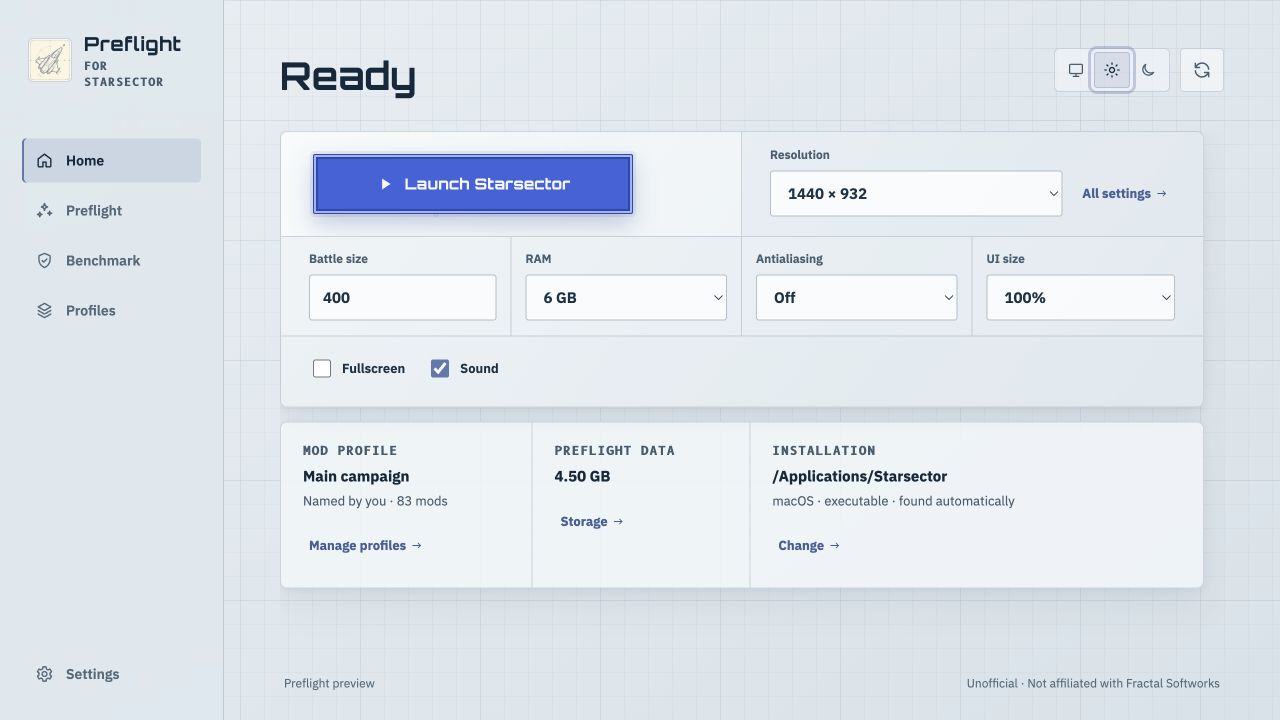
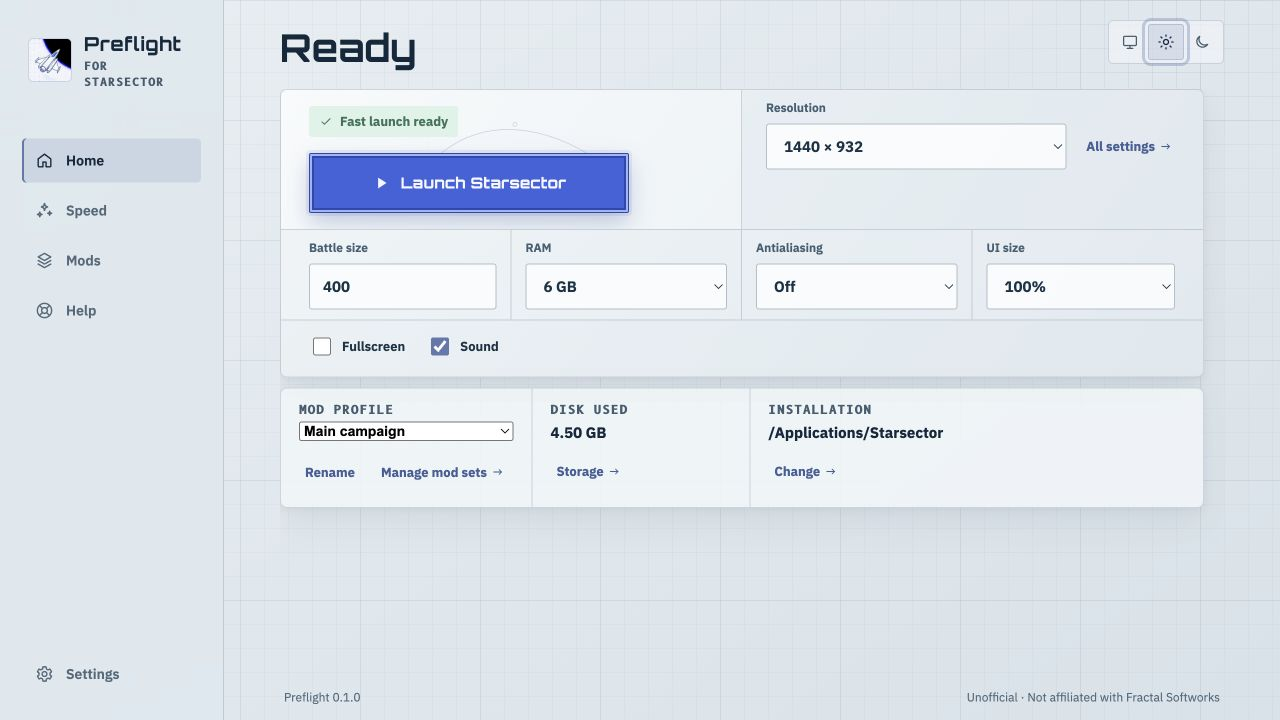
Polish the release candidate walkthrough

diff --git a/preflight-desktop/src/styles.css b/preflight-desktop/src/styles.css
@@ -3405,8 +3405,96 @@ footer {
 }
 
 @media (max-height: 720px) and (min-width: 1001px) {
+  .main {
+    padding-top: 20px;
+    padding-bottom: 14px;
+  }
+
+  .topbar {
+    margin-bottom: 14px;
+  }
+
   .page-viewport--home {
     overflow-y: auto;
+  }
+
+  .prepare-page {
+    gap: 10px;
+  }
+
+  .settings-page {
+    gap: 10px;
+  }
+
+  .settings-page .removal-card {
+    margin-top: 0;
+  }
+
+  .help-page :is(.support-card, .help-links-card) {
+    padding-top: 21px;
+    padding-bottom: 21px;
+  }
+
+  .preflight-summary-card {
+    padding-top: 16px;
+    padding-bottom: 16px;
+  }
+
+  .storage-card--compact {
+    padding-top: 12px;
+    padding-bottom: 10px;
+  }
+
+  .prove-card {
+    padding: 16px 20px;
+  }
+
+  .prove-card__main {
+    margin-bottom: 0;
+  }
+
+  .preflight-advanced > summary {
+    min-height: 56px;
+  }
+
+  .launch-console--configured .launch-console__primary {
+    padding: 16px 28px;
+  }
+
+  .launch-console--configured .quick-control--resolution {
+    padding: 9px 24px;
+  }
+
+  .launch-console--configured :where(.quick-control--battle-size, .quick-control--memory, .quick-control--antialiasing, .quick-control--ui-scale) {
+    padding-top: 9px;
+    padding-bottom: 10px;
+  }
+
+  .launch-console--configured .quick-settings__toggles {
+    padding-top: 4px;
+    padding-bottom: 8px;
+  }
+
+  .home-overview {
+    margin-top: 10px;
+  }
+
+  .home-fact {
+    gap: 3px;
+    padding: 13px 18px;
+  }
+
+  .home-fact > small {
+    display: none;
+  }
+
+  .home-fact .text-button,
+  .home-fact__links {
+    margin-top: 3px;
+  }
+
+  footer {
+    padding-top: 8px;
   }
 }
 

diff --git a/preflight-desktop/src/styles.test.ts b/preflight-desktop/src/styles.test.ts
@@ -45,6 +45,13 @@ test("wide, narrow, and short windows keep content inside the desktop shell", ()
   expect(styles).toMatch(/@media \(max-width: 720px\)[\s\S]*?\.launch-console\s*\{[^}]*grid-template-columns:\s*1fr;/);
   expect(styles).toMatch(/@media \(max-width: 720px\)[\s\S]*?\.home-overview\s*\{[^}]*grid-template-columns:\s*1fr;/);
   expect(styles).toMatch(/@media \(max-width: 780px\)[\s\S]*?\.brand,[\s\S]*?\.nav,[\s\S]*?\.sidebar__footer\s*\{[^}]*flex-shrink:\s*0;/);
+  expect(styles).toMatch(/@media \(max-height: 720px\) and \(min-width: 1001px\)[\s\S]*?\.main\s*\{[^}]*padding-top:\s*20px;/);
+  expect(styles).toMatch(/@media \(max-height: 720px\) and \(min-width: 1001px\)[\s\S]*?\.prepare-page\s*\{[^}]*gap:\s*10px;/);
+  expect(styles).toMatch(/@media \(max-height: 720px\) and \(min-width: 1001px\)[\s\S]*?\.settings-page\s*\{[^}]*gap:\s*10px;/);
+  expect(styles).toMatch(/@media \(max-height: 720px\) and \(min-width: 1001px\)[\s\S]*?\.settings-page \.removal-card\s*\{[^}]*margin-top:\s*0;/);
+  expect(styles).toMatch(/@media \(max-height: 720px\) and \(min-width: 1001px\)[\s\S]*?\.help-page :is\(\.support-card, \.help-links-card\)\s*\{[^}]*padding-top:\s*21px;/);
+  expect(styles).toMatch(/@media \(max-height: 720px\) and \(min-width: 1001px\)[\s\S]*?\.prove-card__main\s*\{[^}]*margin-bottom:\s*0;/);
+  expect(styles).toMatch(/@media \(max-height: 720px\) and \(min-width: 1001px\)[\s\S]*?\.home-fact > small\s*\{[^}]*display:\s*none;/);
   expect(styles).toMatch(/@media \(max-height: 720px\) and \(min-width: 1001px\)[\s\S]*?\.page-viewport--home\s*\{[^}]*overflow-y:\s*auto;/);
 });
 

diff --git a/preflight-desktop/src/components/PreparationPage.tsx b/preflight-desktop/src/components/PreparationPage.tsx
@@ -147,7 +147,7 @@ export function PreparationPage({
             <h2>Optimizations</h2>
             <InfoTip label="About Preflight optimizations">Preflight applies only transformations reviewed for the exact game and mod build. A fingerprint mismatch keeps the original code.</InfoTip>
           </div>
-          <p>{optimizationPreset === "off" ? "Starsector will launch without Preflight’s runtime optimizations." : optimizationPreset === "conservative" ? "Compatibility mode is enabled for the next launch." : "Enabled for the next launch."}</p>
+          {optimizationPreset === "conservative" ? <p>Compatibility mode is enabled for the next launch.</p> : null}
         </div>
         <label className="simple-switch">
           <input type="checkbox" aria-label="Use Preflight optimizations" checked={optimizationPreset !== "off"} onChange={(event) => onOptimizationPresetChange(event.target.checked ? "recommended" : "off")} disabled={operationBlocked} />
@@ -213,7 +213,7 @@ export function PreparationPage({
         <div className="prove-card__main">
           <div>
             <h2>Does this actually help?</h2>
-            <p>Time your own game with and without Preflight, on this machine and this mod list.</p>
+            <p>Compare a normal launch with Preflight on this mod list.</p>
           </div>
           <button className="button button--quiet" type="button" onClick={onOpenBenchmark} disabled={!isReady}><GaugeIcon />Measure it<ArrowIcon /></button>
         </div>

diff --git a/preflight-desktop/src/components/HomePage.tsx b/preflight-desktop/src/components/HomePage.tsx
@@ -150,7 +150,7 @@ export function HomePage({
                 ? "This mod setup needs preparation"
                 : optimizationPreset === "off"
                   ? "Optimizations off — this launch won’t be faster"
-                  : "Ready — this launch will be the fast one";
+                  : "Fast launch ready";
   /*
    * The chip is always shown in the settled state, and says which of the two launches the button
    * is about to perform. "Ready" alone is the page title's job. Whether the next launch is the

diff --git a/scripts/verify_source_boundary.py b/scripts/verify_source_boundary.py
@@ -32,12 +32,42 @@ REVIEWED_OVERSIZED_BLOBS = {
 # alongside the blob id makes accidental truncation or substitution obvious and
 # lets the history audit accept only the reviewed image bytes.
 REVIEWED_DOCUMENTATION_IMAGES = {
-    "docs/images/desktop-home-dark.png": (61_109, "6b8308d1b71cb8e85a350bfb6d31956c51556ee5"),
-    "docs/images/desktop-home-light.png": (64_418, "1c4517a2161186f34a79ea9fffa66db79f28f167"),
-    "docs/images/desktop-profiles-light.png": (59_424, "b206041df4ee61123b3a6a47b492270bbcae4ac6"),
-    "docs/images/walkthrough-benchmark.png": (56_692, "69fb4cf05512f189151cf1e0f58085a6be6162fe"),
-    "docs/images/walkthrough-ready.png": (61_105, "7e413e9e2e55678192dd4c9f5a04673fc20f4cfa"),
-    "docs/images/walkthrough-setup.png": (50_674, "f41cfd715b7129a3439e3d3deb9e8886d52e90fd"),
+    "docs/images/desktop-home-dark.png": frozenset(
+        {
+            (61_109, "6b8308d1b71cb8e85a350bfb6d31956c51556ee5"),
+            (56_247, "ca01e532a00e804e5cca00c6f85028ab81b0fbdb"),
+        }
+    ),
+    "docs/images/desktop-home-light.png": frozenset(
+        {
+            (64_418, "1c4517a2161186f34a79ea9fffa66db79f28f167"),
+            (62_880, "a042bb65181efe99c41e2f7132a96f6ec8ca9c4e"),
+        }
+    ),
+    "docs/images/desktop-profiles-light.png": frozenset(
+        {
+            (59_424, "b206041df4ee61123b3a6a47b492270bbcae4ac6"),
+            (56_409, "4402dd545b806b5667f442e7370bfa3b3f3f8cf9"),
+        }
+    ),
+    "docs/images/walkthrough-benchmark.png": frozenset(
+        {
+            (56_692, "69fb4cf05512f189151cf1e0f58085a6be6162fe"),
+            (56_508, "b36aa4e523f1f850179093388f5ea38a18deb066"),
+        }
+    ),
+    "docs/images/walkthrough-ready.png": frozenset(
+        {
+            (61_105, "7e413e9e2e55678192dd4c9f5a04673fc20f4cfa"),
+            (56_016, "e8676673464db9e897c831e69813bb08d7bb83c4"),
+        }
+    ),
+    "docs/images/walkthrough-setup.png": frozenset(
+        {
+            (50_674, "f41cfd715b7129a3439e3d3deb9e8886d52e90fd"),
+            (49_295, "2922b4b63d94ac7a3f1eaca5adc886914199deb1"),
+        }
+    ),
 }
 FORBIDDEN_SEGMENTS = frozenset({"activation", "mods", "saves", "screenshots"})
 FORBIDDEN_BASENAMES = frozenset(
@@ -134,10 +164,10 @@ def git_blob_sha1(data: bytes) -> str:
 
 
 def reviewed_documentation_image(name: str, data: bytes) -> bool:
-    fingerprint = REVIEWED_DOCUMENTATION_IMAGES.get(name)
-    if fingerprint is None:
+    fingerprints = REVIEWED_DOCUMENTATION_IMAGES.get(name, frozenset())
+    if not fingerprints:
         return False
-    return (len(data), git_blob_sha1(data)) == fingerprint
+    return (len(data), git_blob_sha1(data)) in fingerprints
 
 
 def git(repository: Path, *args: str, input_data: bytes | None = None) -> bytes:

diff --git a/docs/getting-started.md b/docs/getting-started.md
@@ -50,16 +50,17 @@ change your mod list.
 
 ![Preflight asking for a Starsector installation](images/walkthrough-setup.png)
 
-## 4. Leave the defaults alone
+## 4. Prepare and launch
 
-**Recommended** and **Balanced** are the defaults and are what you want. Recommended enables the
-reviewed set of optimizations; Balanced trades some disk for speed without going overboard.
+Click **Prepare and launch**. Preflight automatically uses the reviewed optimizations and its normal
+storage choice, then opens Starsector when preparation finishes. You don't need to choose a mode.
 
 Before it writes anything, Preflight calculates how much disk the prepared data will need and
 refuses to start if the conservative estimate wouldn't leave at least 1 GiB free. On the 83-mod
-profile used in development the finished cache was about 4.5 GB.
+profile used in development the finished cache was about 4.5 GB. If that doesn't fit, the same
+screen offers a much smaller preparation instead.
 
-## 5. Prepare, once
+## 5. Let the first preparation finish
 
 Preparation is the slow step, and it only happens when your game or mod profile changes. It shows
 which phase it's on and can be cancelled at any point without leaving anything half-written.
@@ -69,18 +70,19 @@ launch.
 
 ## 6. Launch
 
-The big button starts Starsector. Resolution, battle size, RAM, antialiasing, UI scale, fullscreen,
-and sound sit beside it, so you don't need the vanilla launcher for the usual settings.
+After that first run, the big button simply starts Starsector. Resolution, battle size, RAM,
+antialiasing, UI scale, fullscreen, and sound sit beside it, so you don't need the vanilla launcher
+for the usual settings.
 
 ![Preflight ready to launch an 83-mod profile](images/walkthrough-ready.png)
 
-## 7. Optional: see what it did for you
+## 7. Optional: measure it
 
 The built-in benchmark runs one normal launch and one Preflight launch and compares the time each
 took to reach the main menu. That's your number, on your machine, with your mods — more useful than
 anyone else's.
 
-![Preflight benchmark and support controls](images/walkthrough-benchmark.png)
+![Preflight startup benchmark](images/walkthrough-benchmark.png)
 
 ## If something goes wrong
 

diff --git a/docs/release-readiness.md b/docs/release-readiness.md
@@ -69,12 +69,14 @@ still inside the release boundary below.
   [signed macOS lifecycle evidence](evidence/2026-08-08-signed-update-rollback-rehearsal.md).
 - [ ] Run the startup benchmark on the exact release candidate and publish those results beside the
   **101 seconds → 15.25 seconds** development progression. This one cannot be closed by running
-  anything today: `scripts/run-startup-benchmark.sh` hardcodes
-  `JAR="$PWD/preflight-cli/target/preflight.jar"` and has no packaged-engine mode, so every campaign
-  so far has measured the checkout rather than a built package. The
+  a checkout campaign: `scripts/run-startup-benchmark.sh --engine PATH` now resolves only a reviewed
+  packaged-engine layout, verifies the adjacent `bundle.json` length and SHA-256, records the
+  candidate identity, and refuses to fall back to `preflight-cli/target/preflight.jar`. Every
+  published campaign so far still measured checkout bytes, so the exact-candidate pair itself
+  remains to run. The
   [controlled campaign](evidence/2026-08-15-controlled-vanilla-fast-campaign.md) of 2026-08-15 did
   close the *other* half of this item — a same-profile vanilla baseline against the shipped preset,
-  89.00s versus 15.53s — but it too ran the checkout jar. Closing the box needs harness work first.
+  89.00s versus 15.53s — but it too ran the checkout jar.
 
 ## Blocking product work
 

diff --git a/docs/beta-roadmap.md b/docs/beta-roadmap.md
@@ -93,12 +93,16 @@ claims. Linux starts with X11; Wayland limitations remain explicit.
 
 **Exit:** each platform claim says whether its evidence came from hosted, emulated, or native work.
 
-## 6. Benchmark the release candidate — after candidate freeze
+## 6. Benchmark the release candidate — harness ready
 
 Run the built-in normal-versus-Preflight benchmark on the exact candidate and retain its receipt.
 Publish that result beside the established **101 seconds → 15.25 seconds** development progression.
 An alternating multi-run campaign remains available when it answers a useful follow-up question; it
 isn't required to make the existing progression real.
+
+The operator harness can now take that exact packaged engine, verify its adjacent manifest and
+SHA-256, bind the session to it, and refuse a checkout fallback. The remaining action is the paired
+run after the candidate revision is frozen.
 
 **Exit:** the exact distributed package has a retained benchmark result and the development record
 keeps its stated machine and profile context.

diff --git a/README.md b/README.md
@@ -104,10 +104,10 @@ and sound can be changed beside it.
 ![Preflight ready to launch an 83-mod profile](docs/images/walkthrough-ready.png)
 
 The optional benchmark runs a normal launch and a Preflight launch, then compares their main-menu
-times. Support ZIPs are separate: Preflight shows their contents, exclusions, size, and checksum
-before anything can be sent.
+times. Help is a separate destination: Preflight shows a support ZIP's contents, exclusions, size,
+and checksum before anything can be sent.
 
-![Preflight benchmark and support controls](docs/images/walkthrough-benchmark.png)
+![Preflight startup benchmark](docs/images/walkthrough-benchmark.png)
 
 ## Compatibility and containment
 

diff --git a/docs/beta-announcement-draft.md b/docs/beta-announcement-draft.md
@@ -151,7 +151,7 @@ If any of that sounds wrong or you want more detail, ask me. I'd rather answer t
 
 > Preflight is a free open-source launcher that makes heavily modded Starsector start much faster —
 > it prepares the slow startup work once and reuses it. On my development install that took startup
-> from ~101s at worst to 15.88s warm; the app has a benchmark so you can measure your own.
+> from ~101s at worst to as fast as 15.25s; the app has a benchmark so you can measure your own.
 >
 > It doesn't modify the game, mods, or saves, and anything it doesn't recognize it just skips, so an
 > unknown version means less speedup rather than a broken game.

diff --git a/docs/technical-writeup-draft.md b/docs/technical-writeup-draft.md
@@ -5,7 +5,7 @@ Blog-length piece on how Preflight works. Every number here traces to a retained
 
 ---
 
-## Making a heavily modded Starsector start in 16 seconds instead of 88
+## Making a heavily modded Starsector start in 15 seconds instead of 89
 
 Heavily modded Starsector took about a minute and a half to reach the main menu on my machine: a
 five-run median of 88.13 seconds on a 77-mod profile, with a worst observed run around 101. It now
